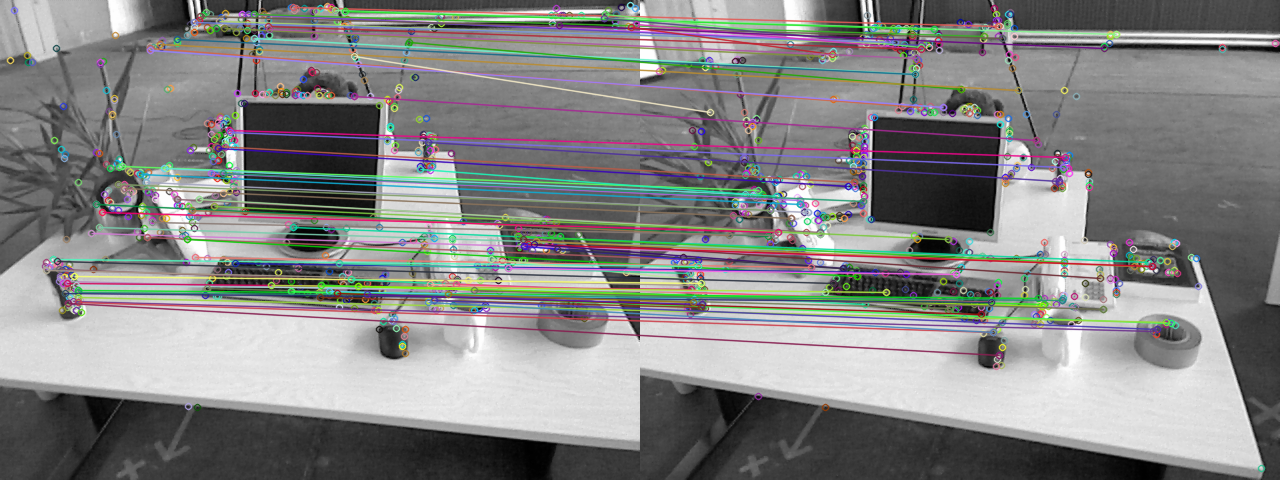
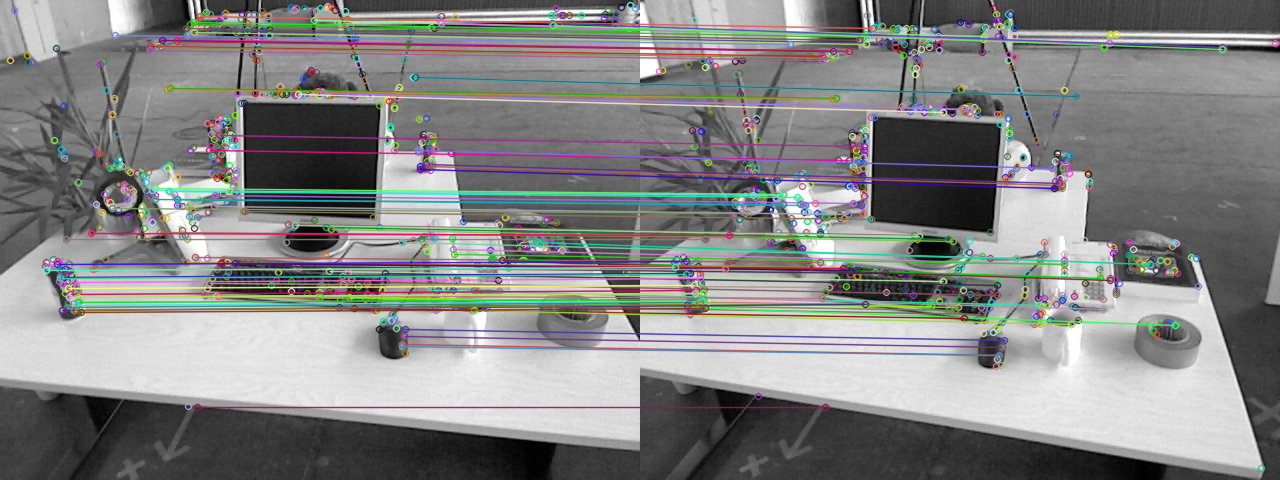
fix bug in feature matching visualization.

diff --git a/workspace/assignments/05-frontend-feature-matching/01-orb-feature-matching/compute_orb.cpp b/workspace/assignments/05-frontend-feature-matching/01-orb-feature-matching/compute_orb.cpp
@@ -29,7 +29,7 @@ void computeAngle(const cv::Mat &image, vector<cv::KeyPoint> &keypoints);
  * @param [in] keypoints detected keypoints
  * @param [out] desc descriptor
  */
-typedef std::bitset<256> DescType;  // use bitset for better performance:
+typedef std::bitset<256 + 1> DescType;  // use bitset for better performance:
 void computeORBDesc(const cv::Mat &image, vector<cv::KeyPoint> &keypoints, vector<DescType> &desc);
 
 // TODO implement this function
@@ -133,7 +133,7 @@ void computeAngle(const cv::Mat &image, vector<cv::KeyPoint> &keypoints) {
             // calculate orientation:
             m10 /= m00;
             m01 /= m00;
-            keypoint.angle = static_cast<float>(
+            angle = static_cast<float>(
                 atan2(
                     static_cast<double>(m01), 
                     static_cast<double>(m10)
@@ -141,10 +141,10 @@ void computeAngle(const cv::Mat &image, vector<cv::KeyPoint> &keypoints) {
             );
 
             // convert to OpenCV angle:
-            keypoint.angle *= RADIUS_TO_DEGREE;
+            angle *= RADIUS_TO_DEGREE;
         }
 
-        keypoint.angle = 0.0f;
+        keypoint.angle = angle;
     }
 
     return;
@@ -416,15 +416,19 @@ void computeORBDesc(const cv::Mat &image, vector<cv::KeyPoint> &keypoints, vecto
     static const size_t N = 256;
     static const float DEGREE_TO_RADIAN = M_PI / 180.0;
 
+    int bad = 0;
+
+    desc.clear();
     for (auto &keypoint: keypoints) {
         DescType d;
         bool out_of_bound = false;
 
         // calculate descriptor:
+        d.reset();
         for (int i = 0; i < N; i++) {
             // get current ORB pattern:
-            int u_p{ORB_pattern[(i << 2) + 0]}, v_p{ORB_pattern[(i << 2) + 1]};
-            int u_q{ORB_pattern[(i << 2) + 2]}, v_q{ORB_pattern[(i << 2) + 3]};
+            int u_p{ORB_pattern[4*i + 0]}, v_p{ORB_pattern[4*i + 1]};
+            int u_q{ORB_pattern[4*i + 2]}, v_q{ORB_pattern[4*i + 3]};
 
             // get feature point orientation:
             double theta = keypoint.angle * DEGREE_TO_RADIAN;
@@ -444,19 +448,17 @@ void computeORBDesc(const cv::Mat &image, vector<cv::KeyPoint> &keypoints, vecto
                 // std::cout << "\t Pair" << i << std::endl;
                 d[i] = image.at<unsigned char>(y_p, x_p) > image.at<unsigned char>(y_q, x_q);
             } else {
-                out_of_bound = true;
+                ++bad;
+                d[N] = true;
                 break;
             }
         }
 
-        if (!out_of_bound) {
-            desc.push_back(d);
-        }
+        desc.push_back(d);
     }
 
     int total = keypoints.size();
-    int bad = keypoints.size() - desc.size();
-    cout << "bad/total: " << bad << "/" << total << endl;
+    std::cout << "bad/total: " << bad << "/" << total << std::endl;
     return;
 }
 
@@ -466,9 +468,15 @@ void bfMatch(const vector<DescType> &desc1, const vector<DescType> &desc2, vecto
     static const int D_MAX = 50;
 
     for (int i = 0; i < desc1.size(); ++i) {
+        // skip invalid descriptor:
+        if (desc1.at(i)[N]) continue;
+
         cv::DMatch match{i, 0, N};
 
-        for (int j = 0; j < desc2.size(); ++j) { 
+        for (int j = 0; j < desc2.size(); ++j) {
+            // skip invalid descriptor:
+            if (desc2.at(j)[N]) continue;
+
             int distance = (desc1.at(i) ^ desc2.at(j)).count();
 
             if (distance >= D_MAX) continue;
@@ -485,7 +493,7 @@ void bfMatch(const vector<DescType> &desc1, const vector<DescType> &desc2, vecto
     }
 
     for (auto &m: matches) {
-        cout << m.queryIdx << ", " << m.trainIdx << ", " << m.distance << endl;
+        // cout << m.queryIdx << ", " << m.trainIdx << ", " << m.distance << endl;
     }
 
     return;

diff --git a/workspace/assignments/05-frontend-feature-matching/README.md b/workspace/assignments/05-frontend-feature-matching/README.md
@@ -176,9 +176,9 @@ The execution time is shown below. Here C++ `bitset` is used to replace `std::ve
 # run ORB feature matching:
 time ./orb_feature_matching 
 # time it:
-real	0m0.148s
-user	0m0.370s
-sys	0m0.694s
+real	0m0.167s
+user	0m0.322s
+sys	0m0.786s
 ```
 
 Further optimization could be achieved by **Using KDTree for feature matching**. But the search tree should be adapted to work on bitset.
